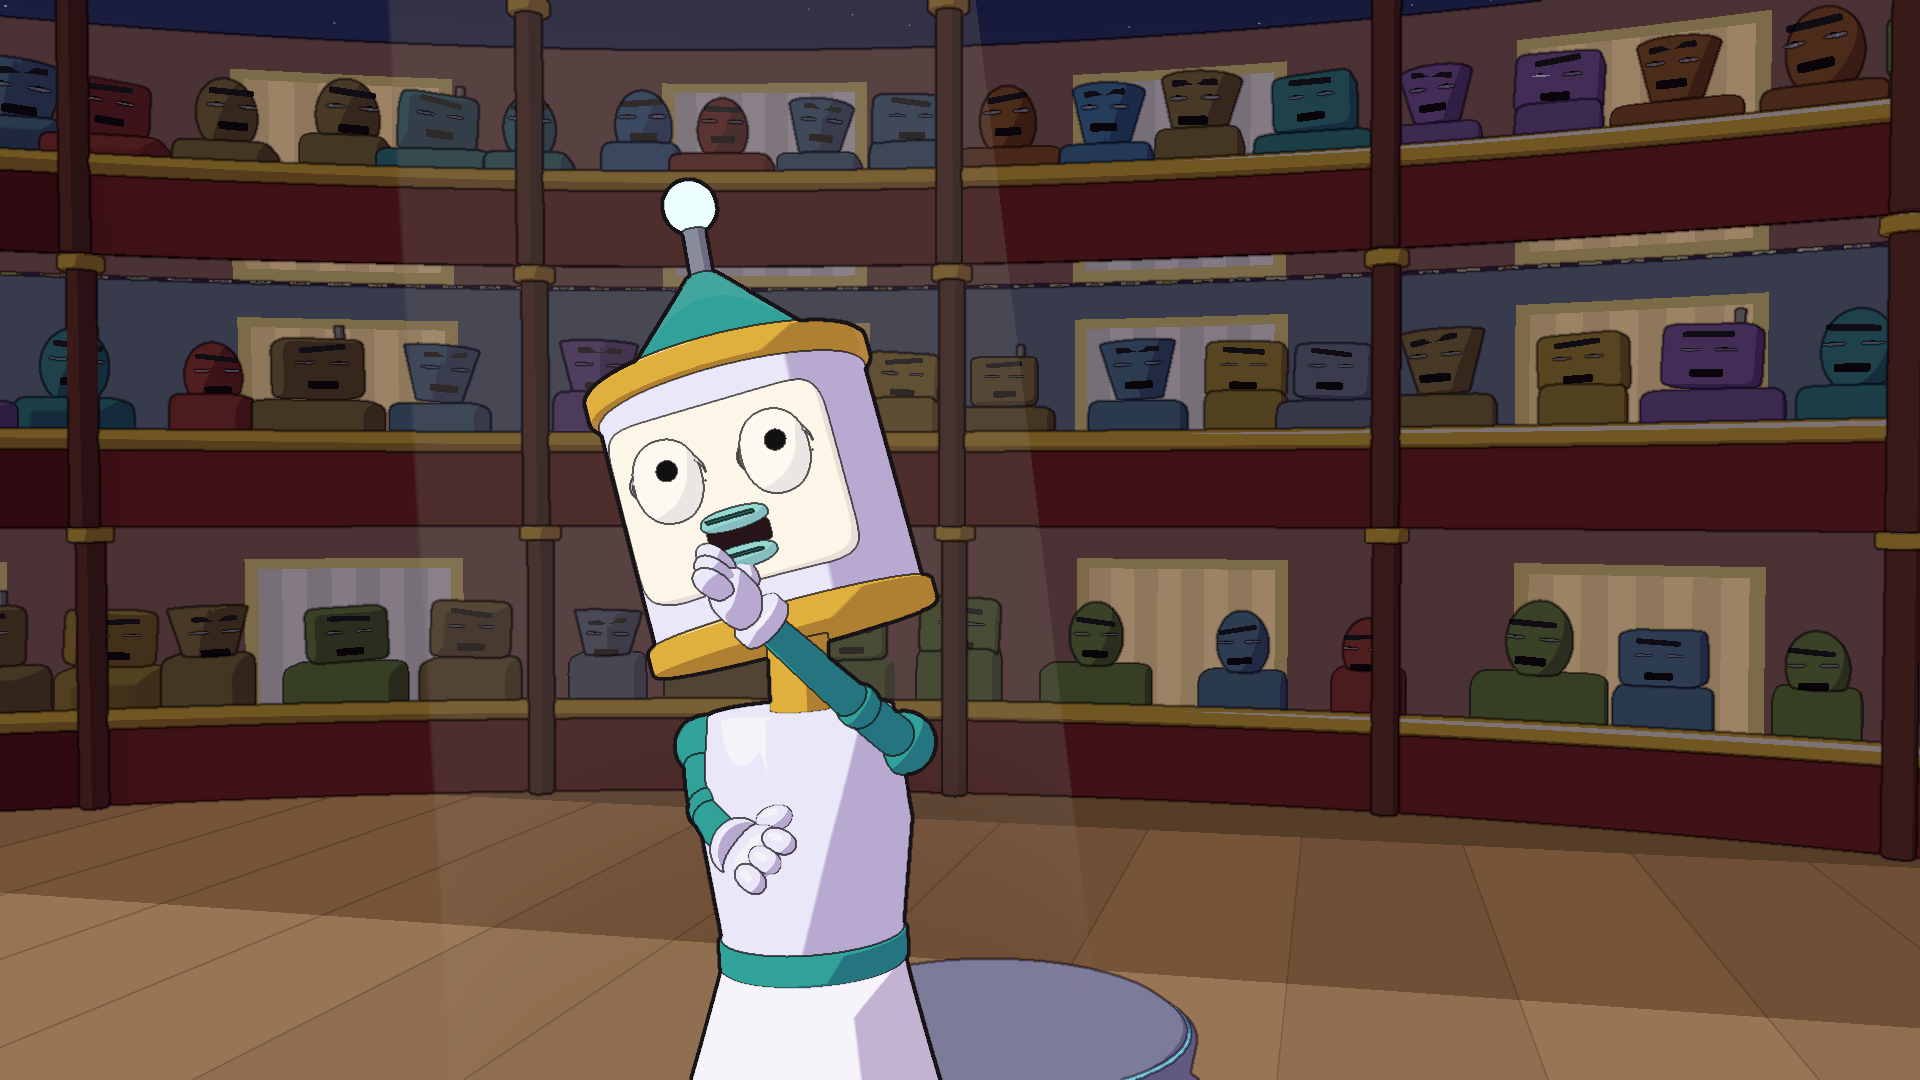
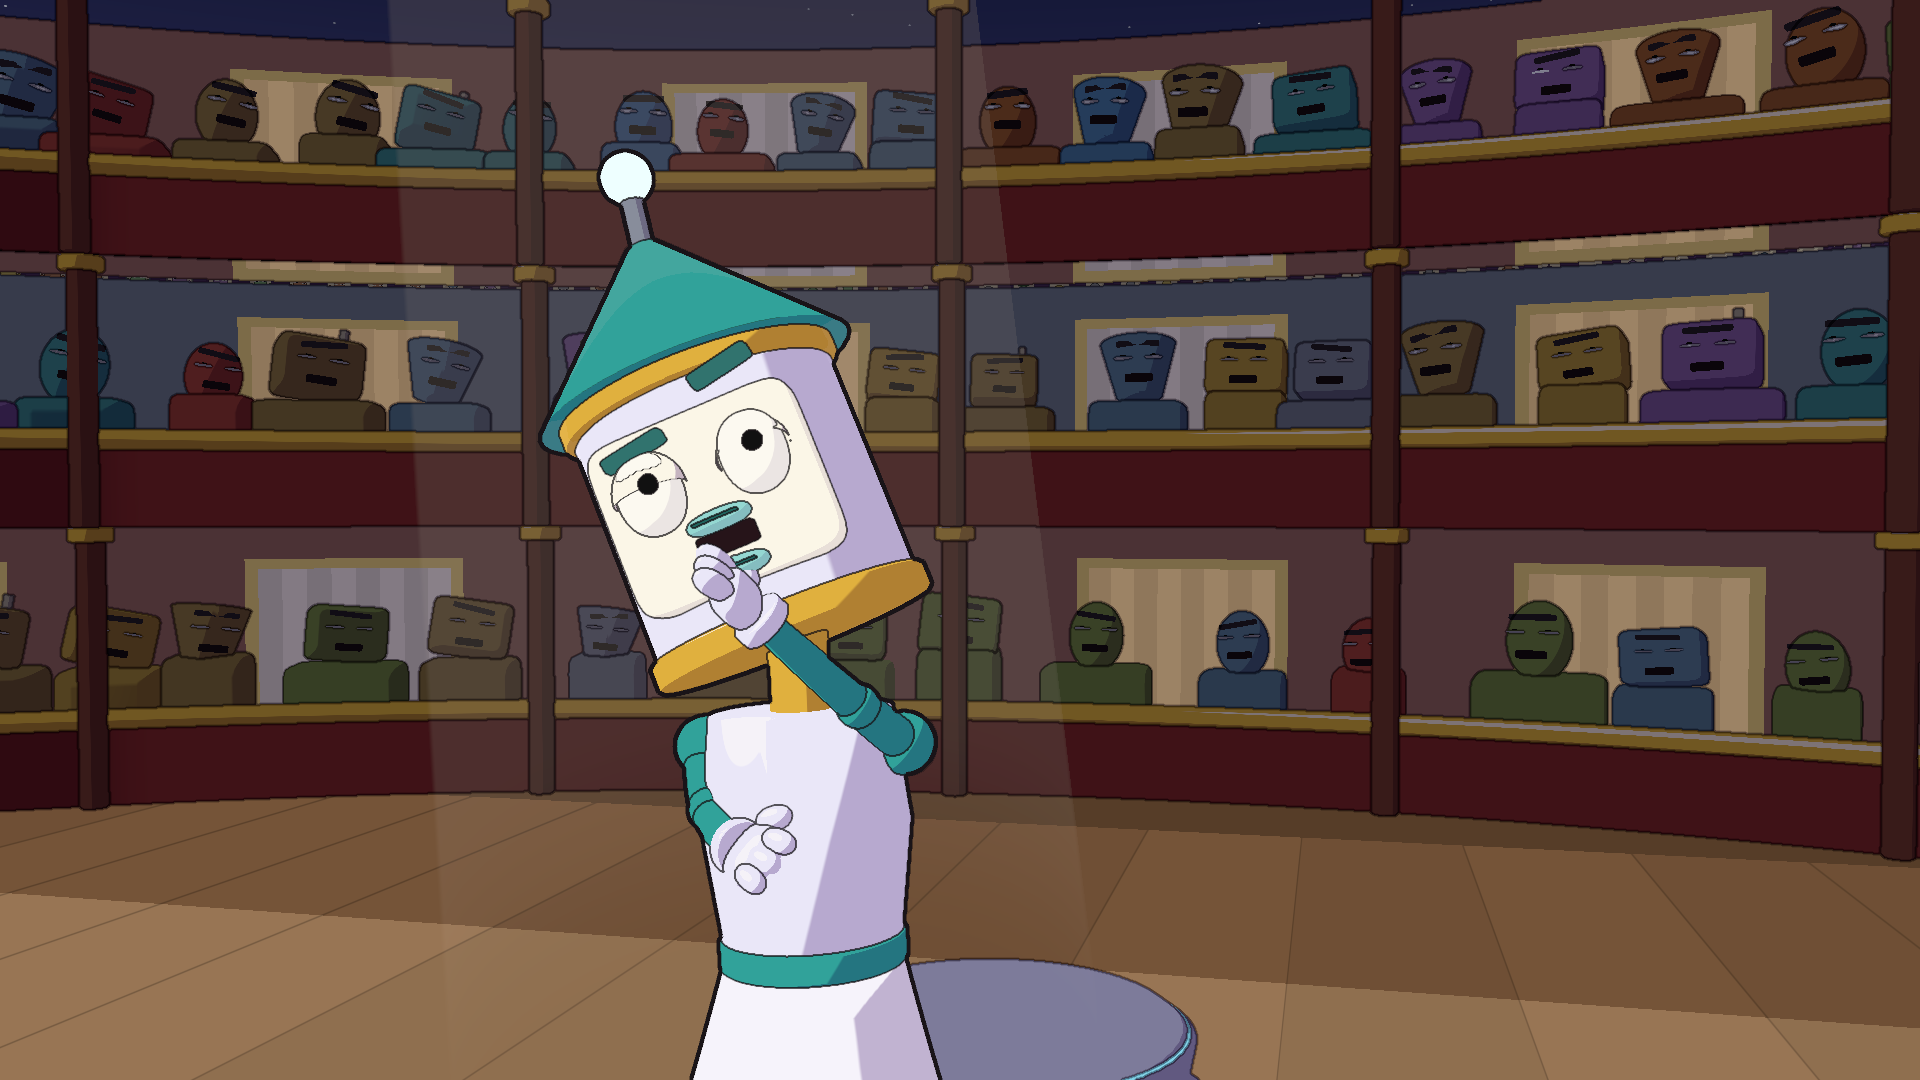
Question round 2: low house-left opening, acting faces, rapt crowd, star settles for the cut
Opening shot is a low three-quarter push-in from house left. Aria's brows,
lids and head carry each line (puzzled arch, wonder, worried yearning,
held-note pleading). The house watches the dream wide-eyed, looking up.
The dream star comes down to 0.75 in the last half second.

diff --git a/visuals/one-more-dawn/src/lib/clips/question.ts b/visuals/one-more-dawn/src/lib/clips/question.ts
@@ -187,9 +187,8 @@ function ariaActing(t: number, p: Pose): void {
   const held = span(t, WORD.forW - 0.1, END + 1, 0.6, 0.5);
   const thinkFace = span(t, WORD.a - 0.15, WORD.ifWe + 0.1, 0.35, 0.4);
   p.brow = 0.1 * scan - 0.15 * thinkFace + 0.8 * wonder + 0.25 * yearn + 0.9 * found + 0.75 * held;
-  // Rendered check: on Aria's rig a negative browTilt lifts the inner ends
-  // (worried); positive reads stern. Keep worry/yearning negative here.
-  p.browTilt = -(0.1 * thinkFace + 0.1 * wonder + 0.8 * yearn + 0.2 * found + 0.5 * held);
+  // Positive browTilt lifts the inner ends (worried, yearning).
+  p.browTilt = 0.1 * thinkFace + 0.1 * wonder + 0.8 * yearn + 0.2 * found + 0.5 * held;
   // Extra head tilt on the question and a lift into the held note.
   p.headRoll += thinkFace * 0.12 + held * Math.sin((t - WORD.forW) * 0.9) * 0.06;
   p.lid = Math.max(0, p.lid - wonder * 0.14 + thinkFace * 0.08 + yearn * 0.06 - found * 0.14 + held * 0.32);
